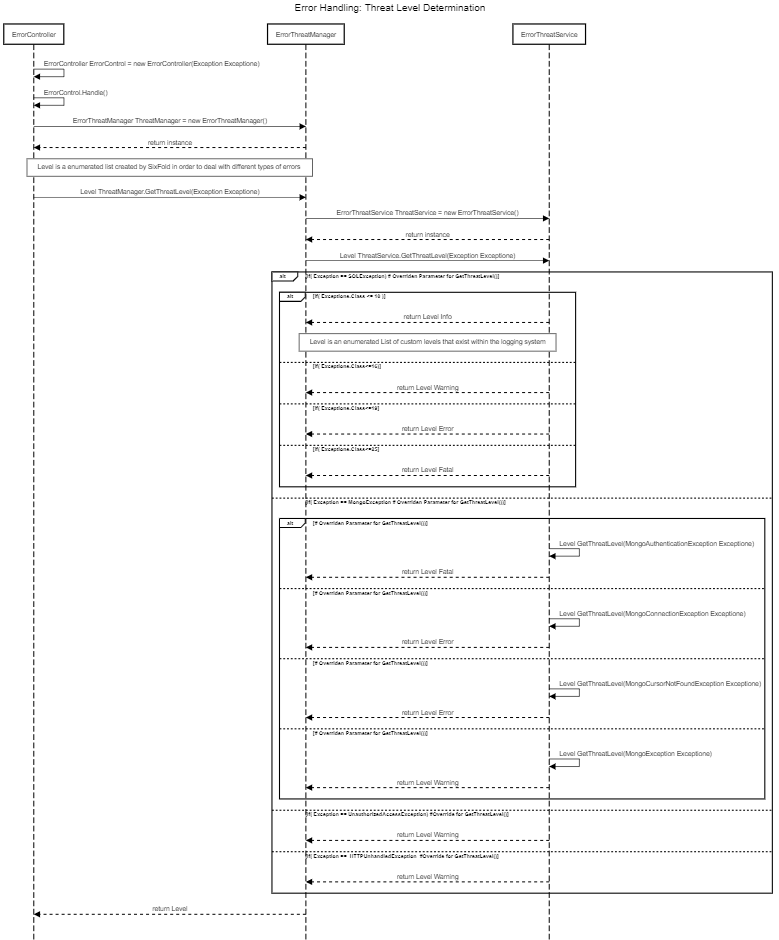
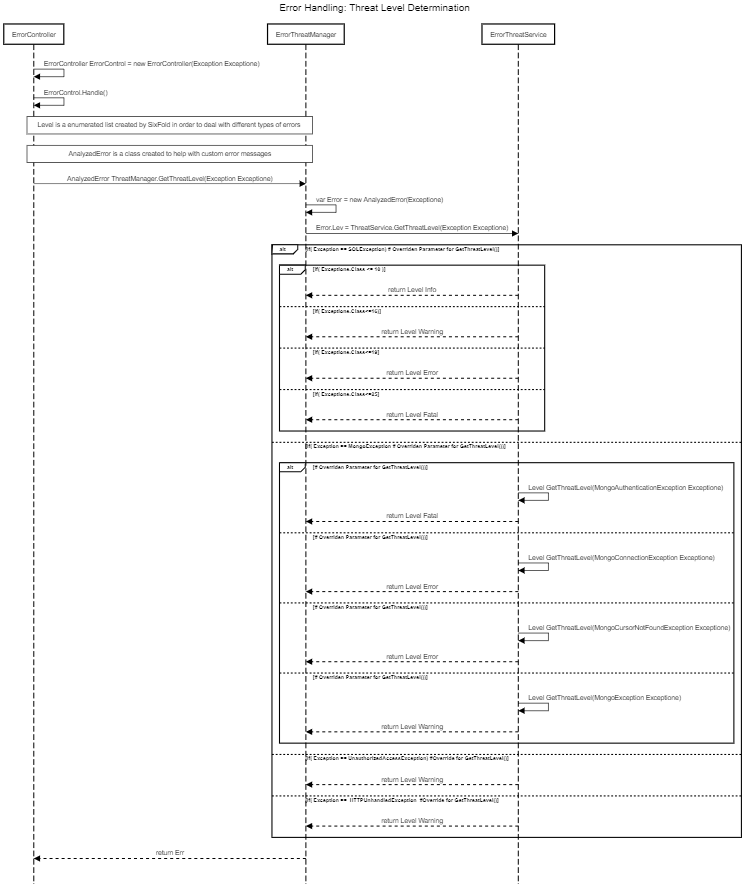
more AnalyzedError handling, changed all designs to reflect this, added tests

Changed region(s): [[0.0, 0.0, 1.0, 1.0], [0.3382, 0.0, 0.615, 0.0611], [0.1845, 0.9468, 0.246, 0.9774]]

diff --git a/ErrorThreatTest/ConstructorTest.cs b/ErrorThreatTest/ConstructorTest.cs
@@ -1,0 +1,39 @@
+using Microsoft.VisualStudio.TestTools.UnitTesting;
+using RoomAid.ErrorHandling;
+using System;
+
+namespace ErrorHandlingTest
+{
+    [TestClass]
+    public class ConstructorTest
+    {
+        [TestMethod]
+        public void AnalyzedErrorConstructorTest()
+        {
+            var Err = new AnalyzedError(new Exception());
+            Assert.IsInstanceOfType(Err, typeof(AnalyzedError));
+        }
+
+        [TestMethod]
+        public void ErrorControllerConstructorTest()
+        {
+            var Err = new ErrorController(new Exception());
+            Assert.IsInstanceOfType(Err, typeof(ErrorController));
+        }
+
+        [TestMethod]
+        public void ErrorResponseManagerConstructorTest()
+        {
+            var Err = new ErrorResponseManager(new Exception());
+            Assert.IsInstanceOfType(Err, typeof(ErrorResponseManager));
+        }
+
+        [TestMethod]
+        public void FatalResponseServiceConstructorTest()
+        {
+            var Err = new FatalResponseService(new Exception());
+            Assert.IsInstanceOfType(Err, typeof(FatalResponseService));
+        }
+
+    }
+}

diff --git a/EmailingTest/EmailServiceTest.cs b/EmailingTest/EmailServiceTest.cs
@@ -17,7 +17,7 @@ namespace EmailingTest
         [TestMethod]
         public void EmailSendTest()
         {
-            bool Answer = true;
+            
             string Body = "body";
             string Subject = "subject";
             var User = "User";

diff --git a/ErrorThreatTest/ResponseTest.cs b/ErrorThreatTest/ResponseTest.cs
@@ -1,0 +1,14 @@
+using Microsoft.VisualStudio.TestTools.UnitTesting;
+
+namespace Error_Response_Test
+{
+    [TestClass]
+    public class ResponseTest
+    {
+        [TestMethod]
+        public void TestMethod1()
+        {
+
+        }
+    }
+}

diff --git a/Error Handling/ErrorController.cs b/Error Handling/ErrorController.cs
@@ -13,7 +13,6 @@ namespace RoomAid.ErrorHandling
     /// </summary>
     public class ErrorController
     {
-
         private readonly Exception _exceptione;
         public AnalyzedError Err
         { get;set; }
